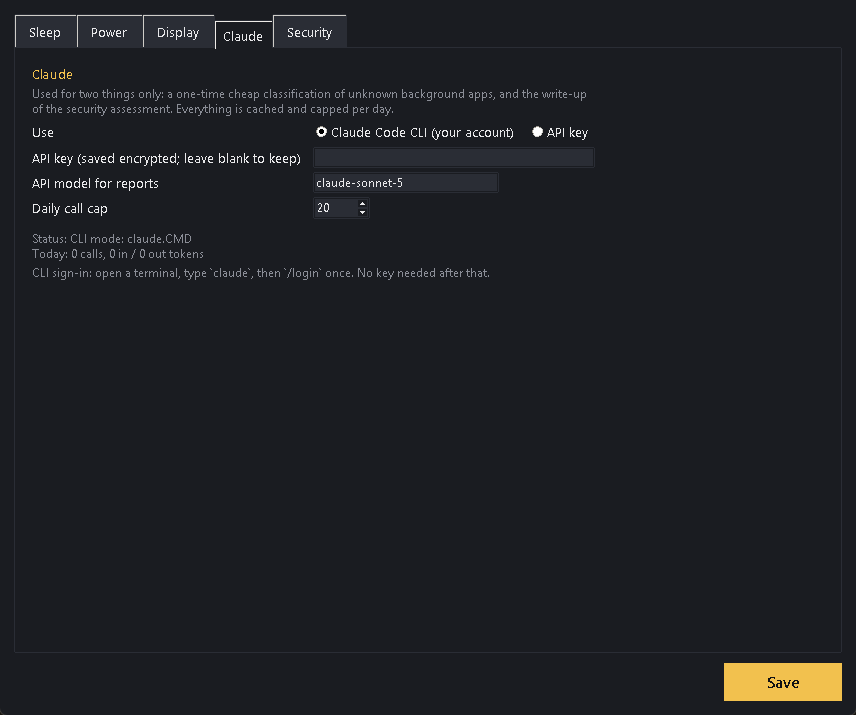
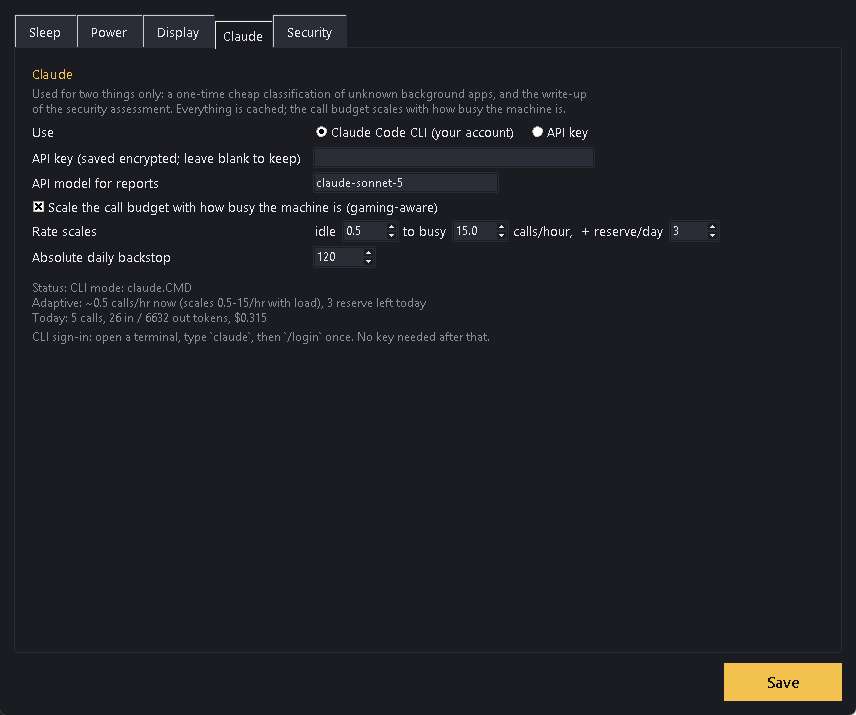
Adaptive Claude call budget that scales with machine load
Replaces the flat daily cap with a budget that tracks how busy the machine is,
so classifications keep up during a gaming or heavy session and cost almost
nothing when idle. A token bucket meters calls at a rate that moves between a
floor (0.5/hour) and a ceiling (15/hour); the rate follows a projection equal
to the greater of recent demand and a live intensity hint the app feeds from
the power engine (profile tier plus CPU/GPU pressure). A small daily reserve
sits on top of the hourly rate, with an absolute daily backstop against a
runaway loop. Over-projection self-corrects: when a session ends the rate falls
back to the floor.

Settings exposes the floor, ceiling, reserve, backstop and an on/off switch
(off = the old flat cap), and the status line shows the current rate. A config
written before this change has its old low cap lifted to the new default once.

Verified with a simulated clock (floor, ceiling, instant ramp, decay, backstop,
fixed-mode) and a live wiring check. The claude CLI sign-in was also confirmed
working end to end: connectivity, the process classifier, and the security
write-up.

diff --git a/claude_bridge.py b/claude_bridge.py
@@ -17,6 +17,7 @@ import logging
 import os
 import shutil
 import subprocess
+import time
 import urllib.request
 
 log = logging.getLogger("lightsout.claude")
@@ -24,7 +25,12 @@ NOWIN = 0x08000000
 CHEAP_MODEL = "claude-haiku-4-5-20251001"
 GOOD_MODEL = "claude-sonnet-5"
 DEFAULTS = {"mode": "cli", "cli_path": "", "api_key_enc": "", "api_model": GOOD_MODEL,
-            "cheap_model": CHEAP_MODEL, "daily_call_cap": 20}
+            "cheap_model": CHEAP_MODEL,
+            # Adaptive budget: the allowed rate scales between a floor and a ceiling
+            # (calls/hour) with projected demand, plus a small daily reserve on top.
+            "rate_adaptive": True, "rate_min_per_hour": 0.5, "rate_max_per_hour": 15.0,
+            "daily_reserve": 3,
+            "daily_call_cap": 120}           # daily maximum: a backstop when adaptive, a flat cap when not
 
 
 # -- DPAPI --------------------------------------------------------------------------
@@ -68,6 +74,111 @@ def find_cli():
     return ""
 
 
+def _load_json(path, default):
+    try:
+        with open(path, encoding="utf-8") as f:
+            return json.load(f)
+    except Exception:
+        return default
+
+
+class RateLimiter:
+    """Adaptive call budget for the Claude bridge.
+
+    The allowed rate scales between a floor and a ceiling (calls/hour) with
+    projected demand; on top of that sits a small daily reserve. The projection
+    is the greater of recent actual demand and a live 'intensity' hint from the
+    power engine, which runs high during a gaming or heavy session where new
+    processes need classifying. So a busy session ramps straight to the ceiling,
+    while a quiet stretch that had been projected high decays back to the floor.
+    A token bucket does the metering, so a fractional floor (0.5/hour = one call
+    every two hours) works cleanly, and an absolute daily backstop guards against
+    a runaway loop."""
+
+    def __init__(self, cfg, path):
+        self.cfg = cfg
+        self.path = path
+        self.intensity = 0.0
+        self.st = _load_json(path, {})
+        if "last" not in self.st:
+            self.st = {"tokens": 1.0, "last": time.time(), "demand": [],
+                       "reserve_date": "", "reserve_used": 0, "served_date": "", "served": 0}
+
+    def _f(self, k, d):
+        try:
+            return float(self.cfg.get(k, d))
+        except Exception:
+            return d
+
+    def set_intensity(self, x):
+        try:
+            self.intensity = max(0.0, min(1.0, float(x)))
+        except Exception:
+            self.intensity = 0.0
+
+    def _bounds(self):
+        lo = max(0.0, self._f("rate_min_per_hour", 0.5))
+        hi = max(lo, self._f("rate_max_per_hour", 15.0))
+        return lo, hi
+
+    def projection(self, now):
+        lo, hi = self._bounds()
+        self.st["demand"] = [t for t in self.st.get("demand", []) if now - t < 3600]
+        demand_rate = len(self.st["demand"])                 # wanted calls in the last hour
+        d = demand_rate / hi if hi else 0.0
+        return max(0.0, min(1.0, max(d, self.intensity)))
+
+    def rate_now(self, now=None):
+        now = time.time() if now is None else now
+        lo, hi = self._bounds()
+        return lo + (hi - lo) * self.projection(now)
+
+    def _save(self):
+        try:
+            with open(self.path, "w", encoding="utf-8") as f:
+                json.dump(self.st, f)
+        except Exception:
+            log.exception("rate state save")
+
+    def check(self, now=None, record=True):
+        """(allowed, reason, rate_now). record=False peeks without spending."""
+        now = time.time() if now is None else now
+        today = dt.date.today().isoformat()
+        if self.st.get("reserve_date") != today:
+            self.st["reserve_date"], self.st["reserve_used"] = today, 0
+        if self.st.get("served_date") != today:
+            self.st["served_date"], self.st["served"] = today, 0
+        r = self.rate_now(now)                               # prunes demand too
+        cap = max(1.0, r)                                    # hold at least one token so the floor can fire
+        elapsed = max(0.0, now - self.st.get("last", now))
+        self.st["tokens"] = min(cap, self.st.get("tokens", cap) + elapsed / 3600.0 * r)
+        self.st["last"] = now
+        if record:
+            self.st["demand"].append(now)
+        hard = int(self._f("daily_call_cap", 120))
+        reserve = int(self._f("daily_reserve", 3))
+        reserve_left = max(0, reserve - int(self.st.get("reserve_used", 0)))
+        allowed, reason = False, ""
+        if int(self.st.get("served", 0)) >= hard:
+            reason = f"Claude daily backstop reached ({hard} calls); raise it in Settings"
+        elif self.st.get("tokens", 0.0) >= 1.0:
+            allowed = True
+            if record:
+                self.st["tokens"] -= 1.0
+        elif reserve_left > 0:
+            allowed = True
+            if record:
+                self.st["reserve_used"] = int(self.st.get("reserve_used", 0)) + 1
+        else:
+            mins = (1.0 - self.st.get("tokens", 0.0)) / r * 60 if r > 0 else 9999
+            reason = f"Claude rate limit: about {r:.1f} calls/hour right now and the daily reserve is spent; next call in ~{mins:.0f} min"
+        if allowed and record:
+            self.st["served"] = int(self.st.get("served", 0)) + 1
+        if record:
+            self._save()
+        return allowed, reason, r
+
+
 class Claude:
     def __init__(self, cfg, data_dir):
         self.cfg = cfg                                   # the "claude" dict (live)
@@ -75,7 +186,15 @@ class Claude:
         self.cache_path = os.path.join(data_dir, "claude_cache.json")
         self.usage = self._load(self.usage_path, {})
         self.cache = self._load(self.cache_path, {})
+        self.limiter = RateLimiter(cfg, os.path.join(data_dir, "claude_rate.json"))
         self.last_error = ""
+
+    def set_load(self, intensity):
+        """0..1 hint from the power engine; raises the projected rate while busy."""
+        self.limiter.set_intensity(intensity)
+
+    def rate_now(self):
+        return self.limiter.rate_now()
 
     @staticmethod
     def _load(path, default):
@@ -102,6 +221,16 @@ class Claude:
             return "CLI mode: `claude` not found (install Claude Code, or switch to an API key)"
         return f"CLI mode: {os.path.basename(cli)}" + (f" ({self.last_error})" if self.last_error else "")
 
+    def budget(self):
+        """One line on the current budget, for Settings."""
+        if not self.cfg.get("rate_adaptive", True):
+            return f"Fixed cap: {self.calls_today()}/{int(self.cfg.get('daily_call_cap', 20))} calls today"
+        lo = self.cfg.get("rate_min_per_hour", 0.5)
+        hi = self.cfg.get("rate_max_per_hour", 15.0)
+        res = max(0, int(self.cfg.get("daily_reserve", 3)) - int(self.limiter.st.get("reserve_used", 0)))
+        return (f"Adaptive: ~{self.rate_now():.1f} calls/hr now (scales {lo:g}-{hi:g}/hr with load), "
+                f"{res} reserve left today")
+
     def calls_today(self):
         return self.usage.get(dt.date.today().isoformat(), {}).get("calls", 0)
 
@@ -122,7 +251,11 @@ class Claude:
         """Returns (text, error). Cached answers cost nothing."""
         if cache_key and cache_key in self.cache:
             return self.cache[cache_key], ""
-        if self.calls_today() >= int(self.cfg.get("daily_call_cap", 20)):
+        if self.cfg.get("rate_adaptive", True):
+            ok, why, _ = self.limiter.check()
+            if not ok:
+                return "", why
+        elif self.calls_today() >= int(self.cfg.get("daily_call_cap", 20)):
             return "", "daily Claude call cap reached (raise it in Settings)"
         mode = self.cfg.get("mode", "cli")
         text, err = (self._api(prompt, cheap, max_tokens) if mode == "api" else self._cli(prompt, cheap))

diff --git a/REVIEW.md b/REVIEW.md
@@ -265,6 +265,28 @@ the live display configuration at each sleep and writes it to the sentinel
 fresh, but any stored display identifier must be treated as per-session, not
 persistent.
 
+## Adaptive Claude call budget, 2026-11-08
+
+The flat daily cap (20/day) was replaced with a budget that scales with how
+busy the machine is, so classifications keep up during a gaming or heavy
+session and cost almost nothing when idle. A token bucket meters calls at a
+rate that moves between a floor (default 0.5/hour) and a ceiling (15/hour) with
+a projection = the greater of recent actual demand and a live 0..1 intensity
+hint the app feeds from the power engine (profile tier and the 30-second
+CPU/GPU pressure). On top of the hourly rate sits a small daily reserve
+(default 3) and an absolute daily backstop (default 120) against a runaway
+loop. Over-projection self-corrects: when a session ends, intensity drops to 0
+and the trailing demand window empties, so the rate falls back to the floor.
+
+Verified with a simulated clock: floor grants one starter token plus the three
+reserve calls and then one call per two hours; the ceiling serves fifteen in an
+hour; intensity rising to 1 lifts the rate to 15/hour at once; it decays to 0.5
+when idle; the backstop blocks past its limit; and the fixed-cap mode still
+works when adaptive is turned off. A config written before this change has its
+old low cap lifted to the new default once, on upgrade. Settings exposes the
+floor, ceiling, reserve, backstop and an on/off switch; the status line shows
+the current rate.
+
 ## Open items
 
 - Confirm the fingerprint wake with a real touch on another unit.

diff --git a/README.md b/README.md
@@ -80,8 +80,13 @@ is set up. Weekly by default.
 **Claude.** Used for two things only: a one-time, cached classification of
 unknown heavy background apps (so nothing important gets slowed) and the
 security write-up. Either the Claude Code CLI on the machine, billed to your
-account, or an API key stored DPAPI-encrypted. Daily call cap and a usage
-counter in Settings.
+account, or an API key stored DPAPI-encrypted. The call budget is adaptive: it
+scales with how busy the machine is, from a floor when idle (0.5/hour plus a
+small daily reserve) up to a ceiling during a gaming or heavy session
+(15/hour), so classifications keep up when profiles are changing fast and cost
+almost nothing when they are not. An absolute daily backstop and a usage
+counter sit in Settings, and the whole thing can be switched back to a flat
+daily cap.
 
 ## Screenshots
 
